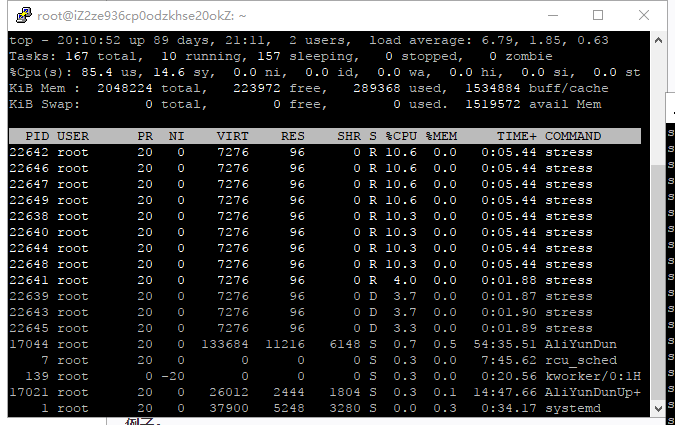
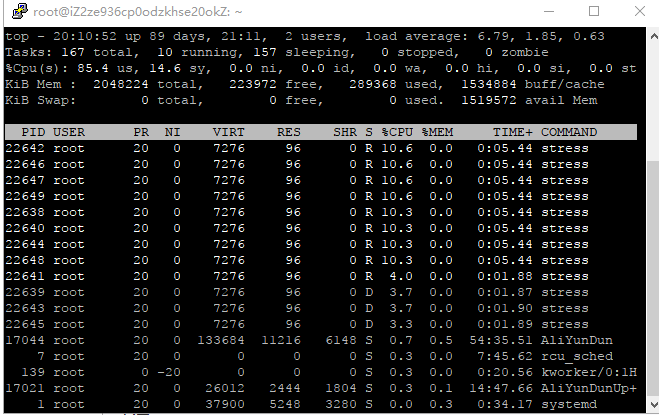
update: 03-18
still need more test cases.

Changed region(s): [[0.0, 0.0, 1.0, 1.0], [0.8194, 0.0, 0.8498, 0.0289]]

diff --git a/第2次作业/src/fakeContainer.c b/第2次作业/src/fakeContainer.c
@@ -96,27 +96,36 @@ struct cgroup*  cgroup_control(pid_t pid){
         printf("Error add controller %s\n", cgroup_strerror(ret));
         goto out;
     }
-
-    //限制只能使用0和1号cpu
-    if (  cgroup_add_value_string(cgc_cpuset, "cpuset.cpus", "0-1") ){
+    /*
+        //限制只能使用0和1号cpu
+        if (  cgroup_add_value_string(cgc_cpuset, "cpuset.cpus", "0-1") ){
+            printf("Error limit cpuset cpus.\n");
+            goto out;
+        }
+    */
+    // 这样就只用一个核心了
+    if (  cgroup_add_value_string(cgc_cpuset, "cpuset.cpus", "0") ){
         printf("Error limit cpuset cpus.\n");
         goto out;
     }
 
-    // TODO:添加cgroup memory子系统，设置内存上限为512MB
+    // TODO:添加cgroup memory子系统，设置内存上限为512MB ==> DONE
     /*  Time:      03/14  11:19
      *  reference: https://www.kernel.org/doc/Documentation/cgroup-v1/memory.txt
      *             http://libcg.sourceforge.net/html/index.html
-     *  not tested, and i havn't read document...
+     *  tested, and works.
      */
     struct cgroup_controller *cgc_memory = cgroup_add_controller(cgroup, "memory");
     if(  !cgc_memory ){
-        /* what's ECGINVAL? */
+        /* what's ECGINVAL?
+         * Represents error coming from other libraries like glibc.
+         * reference: http://libcg.sourceforge.net/html/group__group__errors.html
+         */
         ret = ECGINVAL;
         printf("Error add controller %s\n", cgroup_strerror(ret));
         goto out;
     }
-    /* should i choose this function? */
+    /* should i choose this function? ==> yes, at least it works. */
     if(  cgroup_add_value_int64(cgc_memory, "memory.limit_in_bytes", MEMORY_LIMIT)){
         printf("Error limit memory.\n");
         goto out;

diff --git a/README.md b/README.md
@@ -20,8 +20,8 @@
     - [x] 说明制作流程
  - [ ] 完善fakeContainer.c, 添加cgroup子系统, 资源上限1核心, 512MB. 自选压力测试程序. 讨论内存占用超出时, 是否会kill掉
     - [x] 完善fakeContainer.c
-    - [ ] 自选压力测试(**需要更多实验**)
-    - [ ] 讨论内存超出(**需要实验验证**)
+    - [x] 自选压力测试
+    - [ ] 讨论内存超出(**需要复现杀死进程的情况**)
  - [x] lab1的代码方面的提高
 
-###### last modified date: 2018-03-17
+###### last modified date: 2018-03-18
